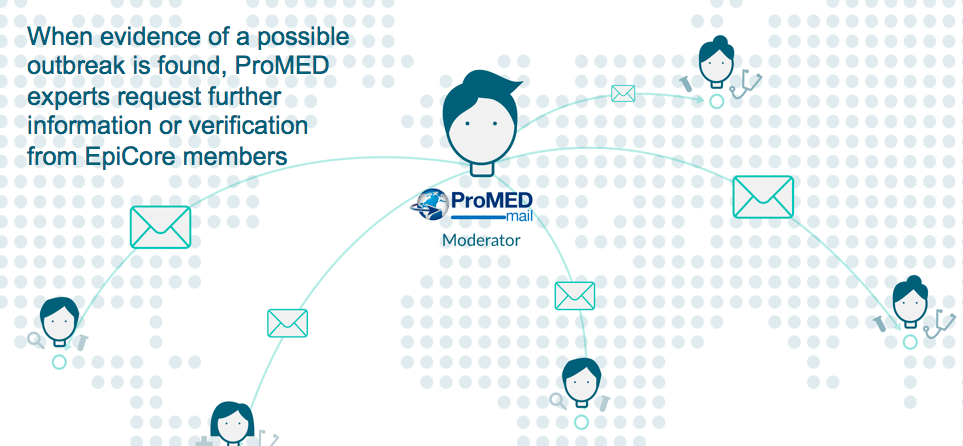
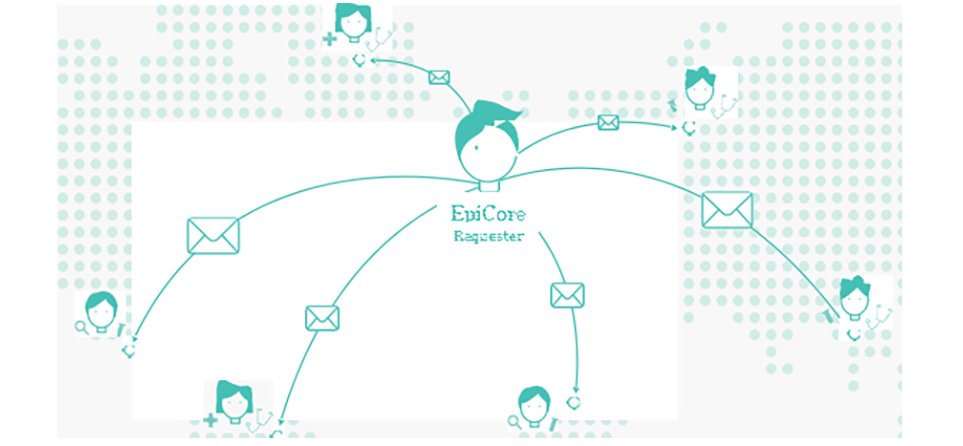
updated how it works images

diff --git a/partials/howitworks.html b/partials/howitworks.html
@@ -11,10 +11,24 @@
     <div class="row">
         <div class="col-xs-12 col-md-8">
         <h3>EpiCore links a worldwide member network of health professionals in order to provide verification of suspected or rumored disease outbreaks.</h3> 
-        <img class="border fullwidth mb24" src="img/how1.png" alt="How it Works Step 1">
-        <img class="border fullwidth mb24" src="img/how2.png" alt="How it Works Step 2">
-        <img class="border fullwidth mb24" src="img/how3.png" alt="How it Works Step 3">
-        <img class="border fullwidth mb24" src="img/how4.png" alt="How it Works Step 4">
+        <div class="col-xs-12 border">
+        <img class="fullwidth mb12" src="img/how1.png" alt="How it Works Step 1">
+        <h4>EpiCore requesters look for leads regarding possible public health events around the world using any source of information</h4>
+    </div>
+        <div class="col-xs-12 border mt24">
+        <img class="fullwidth mb12" src="img/how2.png" alt="How it Works Step 2">
+        <h4>When evidence of a public health event is found, EpiCore requesters will send a request for information (RFI) to the members of a specific geographic region in order to verify the information
+         </h4>
+    </div>
+        <div class="col-xs-12 border mt24">
+        <img class="fullwidth mb12" src="img/how3.png" alt="How it Works Step 3">
+        <h4>Through a secure online platform, members are able to easily and quickly provide (if preferred anonymously) details and local expertise which speeds the event verification or update
+         </h4>
+    </div>
+        <div class="col-xs-12 border mt24 mb24">
+        <img class="fullwidth mb12" src="img/how4.png" alt="How it Works Step 4">
+        <h4>The information collected through the platform is shared on the EpiCore Public RFI dashboard as a event summary as well as disseminated via other communication channels by each requester
+        </h4>
         </div><!--col-->
     </div><!--row-->
 </div><!--container-->
